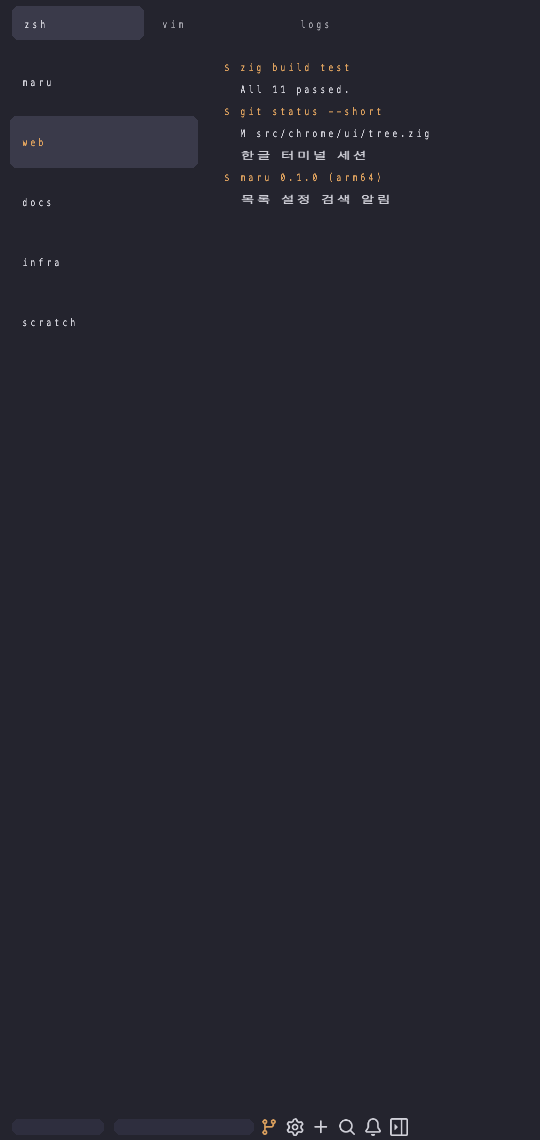
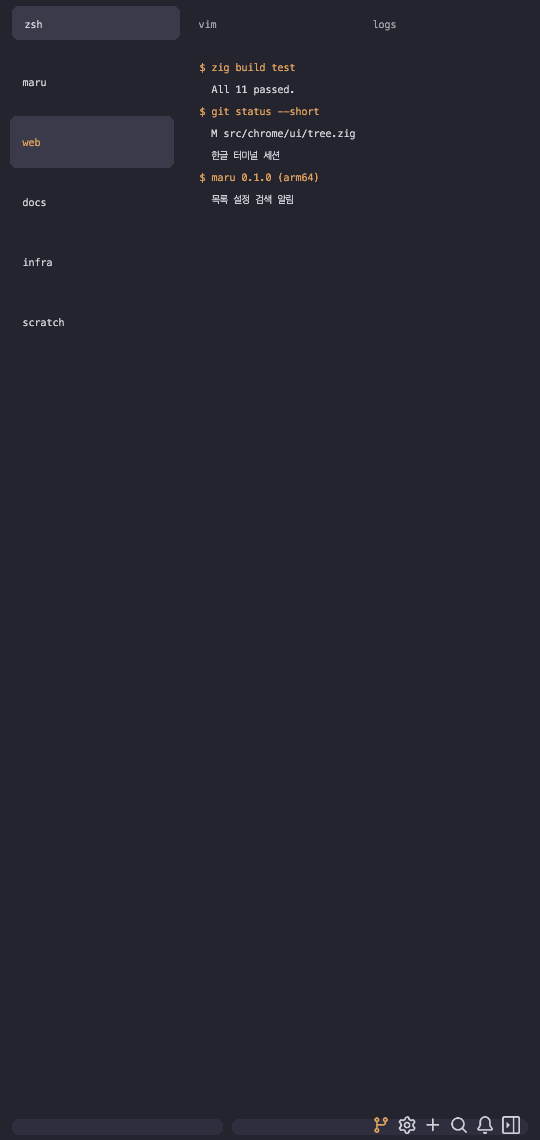
fix(mobile): 자간·종횡비를 폰트 metric 으로 맞추고 레이아웃을 반응형으로
앞 커밋의 글자가 늘어나고 자간이 벌어졌다. 원인이 둘이었다.

  - **진행 폭을 셀 폭(24px)으로 썼다.** 영문이 그 칸에 갇혀 자간이 벌어진다.
    이제 make_atlas 가 CTFontGetAdvancesForGlyphs 로 **실제 advance** 를 기록하고
    Zig 가 그 값으로 pen 을 옮긴다.
  - **quad 종횡비가 셀과 달랐다.** 24x32 셀을 8x15 상자에 넣어 세로로 늘어났다.
    이제 font_px 하나만 받아 셀 비율로 draw 크기를 유도한다.

레이아웃도 고정 px 에서 반응형으로 바꿨다. 그 과정에서 **`.fill` 은 main axis
전용**이라는 것을 실측으로 배웠다 — `card` 의 기본 direction 이 column 이라
자기 기준으로 width 가 cross axis 가 되고 `FillOnCrossAxis` 로 거부된다.
부모(row)가 폭을 나눠 주게 하려면 `flex.grow` 를 쓴다. 상태바 두 칩이 1:1.4 로
나뉘는 것이 그 결과다.

아이콘 크기가 서로 다른 것은 결함이 아니라 **자산 특성**이다. fillCoverage 는
같은 슬롯에 중앙 배치하지만 SVG 여백이 달라 시각 크기가 갈린다 — maru 가
`icons.Fit`(standard/tight)으로 다루는 축이고 모바일에서도 그대로 필요하다.

diff --git a/tools/mobile-poc/chrome_app.m b/tools/mobile-poc/chrome_app.m
@@ -18,7 +18,8 @@ typedef struct {
 extern unsigned int maru_chrome_build(unsigned int width, unsigned int height);
 extern const CQuad *maru_chrome_quads(void);
 extern const char *maru_chrome_last_error(void);
-extern void maru_atlas_add(unsigned int cp, unsigned int col, unsigned int row);
+extern void maru_atlas_add(unsigned int cp, unsigned int col, unsigned int row, unsigned int advance);
+extern void maru_atlas_geometry(unsigned int cell_w, unsigned int cell_h);
 extern unsigned int maru_icon_build(void);
 extern const unsigned char *maru_icon_atlas(void);
 extern unsigned int maru_icon_slot_px(void);
@@ -97,6 +98,7 @@ typedef struct { float rect_px[4]; float color[4]; float misc[4]; float cell[4];
         unsigned int W = head[0].intValue, H = head[1].intValue;
         unsigned int cw = head[2].intValue, ch = head[3].intValue;
         _atlasCols = W / cw; _atlasRows = H / ch;
+        maru_atlas_geometry(cw, ch);
         NSData *gray = [NSData dataWithContentsOfFile:[dir stringByAppendingPathComponent:@"atlas.gray"]];
         if (gray.length >= W * H) {
             MTLTextureDescriptor *td =
@@ -107,8 +109,8 @@ typedef struct { float rect_px[4]; float color[4]; float misc[4]; float cell[4];
                            withBytes:gray.bytes bytesPerRow:W];
             for (NSUInteger i = 1; i < lines.count; i++) {
                 NSArray<NSString *> *f = [lines[i] componentsSeparatedByString:@" "];
-                if (f.count < 3) continue;
-                maru_atlas_add(f[0].intValue, f[1].intValue, f[2].intValue);
+                if (f.count < 4) continue;
+                maru_atlas_add(f[0].intValue, f[1].intValue, f[2].intValue, f[3].intValue);
             }
         }
         NSLog(@"MARU_CHROME atlas=%ux%u cols=%u rows=%u", W, H, _atlasCols, _atlasRows);

diff --git a/tools/mobile-poc/make_atlas.m b/tools/mobile-poc/make_atlas.m
@@ -50,6 +50,8 @@ int main(int argc, char **argv) {
         char idxPath[512];
         snprintf(idxPath, sizeof idxPath, "%s/atlas.idx", outDir);
         idx = fopen(idxPath, "w");
+        // 셀 크기 + 글자 수. 각 줄은 `cp col row advance_px` — **advance 가 있어야 자간이 맞는다**
+        // (셀 폭을 그대로 쓰면 영문이 24px 칸에 갇혀 자간이 벌어진다. 실측으로 드러났다).
         fprintf(idx, "%lu %lu %d %d %lu\n", (unsigned long)W, (unsigned long)H, CELL_W, CELL_H, (unsigned long)n);
 
         for (NSUInteger i = 0; i < n; i++) {
@@ -62,9 +64,14 @@ int main(int argc, char **argv) {
                 font = korean;
                 CTFontGetGlyphsForCharacters(font, &c, &glyph, 1);
             }
-            CGPoint pos = CGPointMake(col * CELL_W + 2, H - (row + 1) * CELL_H + 8);
+            CGPoint pos = CGPointMake(col * CELL_W + 1, H - (row + 1) * CELL_H + 8);
             if (glyph) CTFontDrawGlyphs(font, &glyph, &pos, 1, ctx);
-            fprintf(idx, "%u %lu %lu\n", (unsigned)c, (unsigned long)col, (unsigned long)row);
+            // 폰트가 알려주는 실제 진행 폭. 이 값으로 다음 글자 위치를 정해야 자간이 자연스럽다.
+            CGSize adv = CGSizeZero;
+            if (glyph) CTFontGetAdvancesForGlyphs(font, kCTFontOrientationHorizontal, &glyph, &adv, 1);
+            int advance = (int)(adv.width + 0.5);
+            if (advance <= 0) advance = CELL_W / 2;
+            fprintf(idx, "%u %lu %lu %d\n", (unsigned)c, (unsigned long)col, (unsigned long)row, advance);
         }
         fclose(idx);
 

diff --git a/tools/mobile-poc/chrome_vk.c b/tools/mobile-poc/chrome_vk.c
@@ -22,7 +22,8 @@ typedef struct {
 extern unsigned int maru_chrome_build(unsigned int width, unsigned int height);
 extern const CQuad *maru_chrome_quads(void);
 extern const char *maru_chrome_last_error(void);
-extern void maru_atlas_add(unsigned int cp, unsigned int col, unsigned int row);
+extern void maru_atlas_add(unsigned int cp, unsigned int col, unsigned int row, unsigned int advance);
+extern void maru_atlas_geometry(unsigned int cell_w, unsigned int cell_h);
 extern unsigned int maru_icon_build(void);
 extern const unsigned char *maru_icon_atlas(void);
 extern unsigned int maru_icon_slot_px(void);
@@ -58,10 +59,11 @@ static void loadAtlas(const char *dir) {
     uint32_t cw, ch, n;
     if (fscanf(f, "%u %u %u %u %u", &g_gw, &g_gh, &cw, &ch, &n) != 5) { fclose(f); return; }
     g_cols = g_gw / cw; g_rows = g_gh / ch;
+    maru_atlas_geometry(cw, ch);
     for (uint32_t i = 0; i < n; i++) {
-        uint32_t cp, col, row;
-        if (fscanf(f, "%u %u %u", &cp, &col, &row) != 3) break;
-        maru_atlas_add(cp, col, row);
+        uint32_t cp, col, row, adv;
+        if (fscanf(f, "%u %u %u %u", &cp, &col, &row, &adv) != 4) break;
+        maru_atlas_add(cp, col, row, adv);
     }
     fclose(f);
     FILE *g = fopen(p2, "rb");

diff --git a/tools/mobile-poc/README.md b/tools/mobile-poc/README.md
@@ -97,6 +97,17 @@ clang/NDK 가 맡는다 — 실제 앱에서도 이 구조가 된다.
 **모듈 루트는 `maru.zig` 하나여야 한다.** `chrome` 과 `renderer` 를 따로 주면 둘 다
 `icons.zig` 를 상대 경로로 끌어와 "file exists in two modules" 로 깨진다.
 
+**글리프 폭은 셀이 아니라 폰트 advance 로 정한다.** 셀 폭(24px)을 진행 폭으로 쓰면 영문이
+그 칸에 갇혀 **자간이 벌어진다**. quad 크기도 셀 종횡비(24:32)를 지켜야 글자가 안 늘어난다.
+
+**폭을 늘릴 때는 `.fill` 이 아니라 `flex.grow` 다.** `card` 의 기본 `direction` 은 `column`
+이라 자기 기준으로 width 가 **cross axis** 가 되고, `.fill` 은 main axis 전용이라
+`FillOnCrossAxis` 로 거부된다. 부모(row)가 폭을 나눠 주게 하려면 grow 를 쓴다.
+
+**아이콘 크기는 자산마다 다르다.** `fillCoverage` 는 모두 같은 슬롯에 중앙 배치하지만 SVG
+여백이 달라 시각 크기가 갈린다. maru 는 이걸 `icons.Fit`(standard/tight)으로 다루고
+`search-tight` 같은 별도 자산이 그 증거다 — 모바일에서도 같은 축이 필요하다.
+
 **iOS 는 safe area 를 반영해야 한다.** 창 전체에 그리면 상태바·다이내믹 아일랜드 밑으로
 UI 가 들어간다. 데스크톱에서 타이틀바 inset 을 다루는 것과 같은 종류이고, 실제 이식에서는
 이 inset 을 L1 DTO 로 chrome 에 전달해야 한다.
